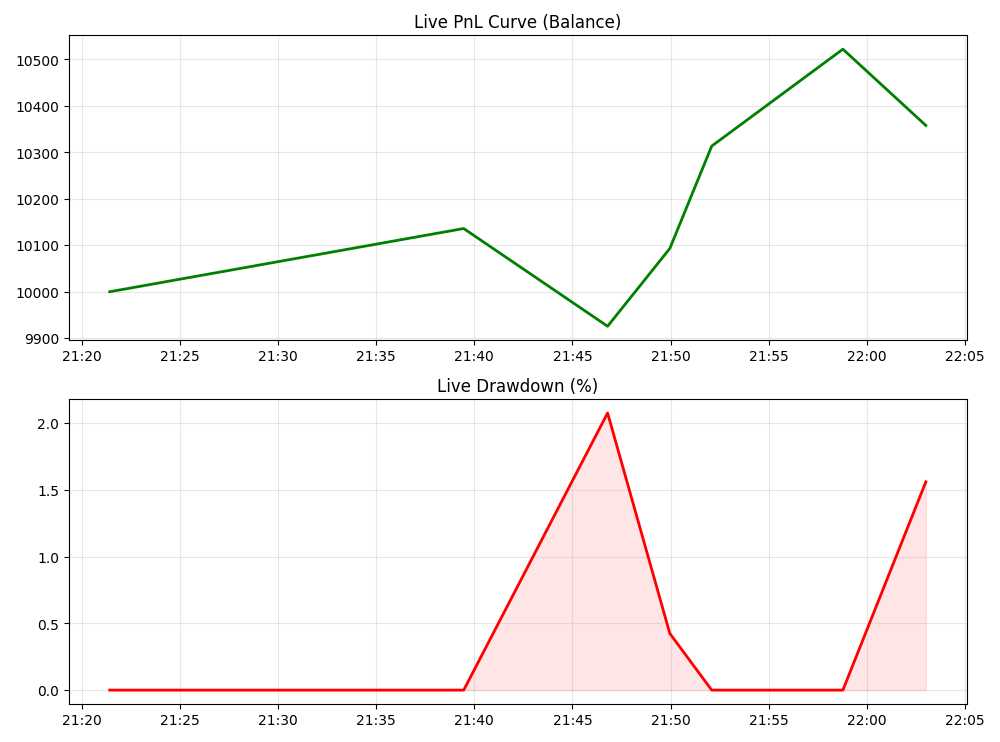
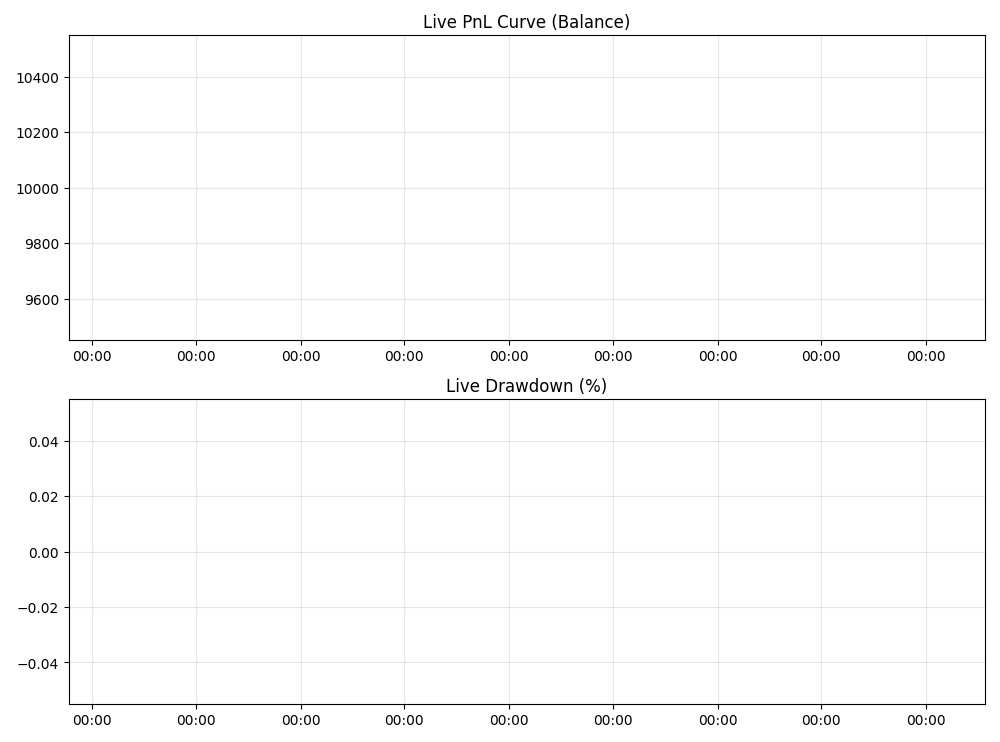
modified:   logs/live_pnl.png 	modified:   logs/live_trading.log 	modified:   src/01_fetch_ohlcv.py 	modified:   src/02_generate_funding_proxy.py 	modified:   src/02_run_eda.py 	modified:   src/03_data_pipeline.py 	modified:   src/06_train_agent.py 	modified:   src/08_live_trading_final.py 	modified

diff --git a/src/03_data_pipeline.py b/src/03_data_pipeline.py
@@ -49,29 +49,42 @@ def augment_data(df):
     return df_aug
 
 def plot_validation(df_real, df_aug):
-    """Generates a validation plot."""
+    """Generates a validation plot with enhanced visualizations."""
     logging.info("   -> Generating validation plots...")
-    
-    plt.figure(figsize=(14, 6))
-    
+    plt.figure(figsize=(18, 6))
+
     # Plot 1: Price Paths
-    plt.subplot(1, 2, 1)
+    plt.subplot(1, 3, 1)
     plt.plot(df_real['close'].values, label='Real (Bullish)', color='blue', alpha=0.7)
     plt.plot(df_aug['close'].values, label='Augmented (Bearish)', color='red', alpha=0.7)
     plt.title(f"{SYMBOL} Price Regimes")
     plt.legend()
     plt.grid(True, alpha=0.3)
-    
-    # Plot 2: Return Distribution
-    plt.subplot(1, 2, 2)
-    plt.hist(df_real['log_ret'], bins=50, alpha=0.5, label='Real Returns', color='blue', density=True)
-    plt.hist(df_aug['log_ret'], bins=50, alpha=0.5, label='Augmented Returns', color='red', density=True)
-    plt.title("Statistical Distribution of Returns")
+
+    # Plot 2: Rolling Volatility (30-period std of returns)
+    plt.subplot(1, 3, 2)
+    real_vol = df_real['log_ret'].rolling(30).std()
+    aug_vol = df_aug['log_ret'].rolling(30).std()
+    plt.plot(real_vol.values, label='Real Volatility', color='blue')
+    plt.plot(aug_vol.values, label='Augmented Volatility', color='red')
+    plt.title('Rolling 30-Period Volatility')
     plt.legend()
     plt.grid(True, alpha=0.3)
-    
+
+    # Plot 3: Rolling Mean Return (trend)
+    plt.subplot(1, 3, 3)
+    real_mean = df_real['log_ret'].rolling(30).mean()
+    aug_mean = df_aug['log_ret'].rolling(30).mean()
+    plt.plot(real_mean.values, label='Real Mean Return', color='blue')
+    plt.plot(aug_mean.values, label='Augmented Mean Return', color='red')
+    plt.title('Rolling 30-Period Mean Return')
+    plt.legend()
+    plt.grid(True, alpha=0.3)
+
     output_path = os.path.join(PROCESSED_DIR, "data_distribution.png")
+    plt.tight_layout()
     plt.savefig(output_path, dpi=300)
+    plt.close()
     logging.info(f"   -> Validation plot saved to {output_path}")
 
 def run_pipeline():

diff --git a/src/06_train_agent.py b/src/06_train_agent.py
@@ -80,10 +80,10 @@ def plot_training_results(log_dir):
 def train():
     logging.info("--- Starting Quick Training Session ---")
 
-    # 1. Setup Directories
+    #  Setup Directories
     os.makedirs(MODELS_DIR, exist_ok=True)
 
-    # 2. Load Data
+    #  Load Data
     if not os.path.exists(INPUT_PATH):
         logging.error("Error: Feature file not found.")
         return
@@ -91,11 +91,11 @@ def train():
     df = pd.read_csv(INPUT_PATH, index_col=0, parse_dates=True)
     logging.info(f"Loaded {len(df)} rows of data.")
 
-    # 3. Initialize Environment (With Monitor for stats)
-    # We wrap the Env in 'Monitor' to track episode rewards easily
+    #  Initialize Environment (With Monitor for stats)
+    #  wrap the Env in 'Monitor' to track episode rewards easily
     env = DummyVecEnv([lambda: Monitor(BitcoinTradingEnv(df, execution_mode='taker'))])
 
-    # 4. Setup Callback for Evaluation/Plotting
+    #  Setup Callback for Evaluation/Plotting
     # Evaluating on the training env itself just for the sake of the curve in this simple script
     eval_callback = EvalCallback(
         env,
@@ -106,7 +106,7 @@ def train():
         render=False
     )
 
-    # 5. Initialize PPO
+    #  Initialize PPO
     model = PPO(
         "MlpPolicy", 
         env, 
@@ -127,7 +127,7 @@ def train():
         )
     )
 
-    # 6. Start Training
+    #  Start Training
     logging.info(f"Training for {TIMESTEPS} timesteps...")
     start_time = time.time()
     
@@ -136,12 +136,12 @@ def train():
     end_time = time.time()
     logging.info(f"--- Training Complete in {(end_time - start_time)/60:.2f} minutes ---")
 
-    # 7. Save
+    #  Save
     save_path = os.path.join(MODELS_DIR, f"PPO_{SYMBOL}_QUICK_{int(time.time())}")
     model.save(save_path)
     logging.info(f"Model saved to: {save_path}.zip")
 
-    # 8. Plot
+    #  Plot
     plot_training_results(LOGS_DIR)
 
 if __name__ == "__main__":

diff --git a/src/01_fetch_ohlcv.py b/src/01_fetch_ohlcv.py
@@ -14,7 +14,7 @@ END_DATE = datetime(2025, 12, 31)
 
 # Specific endpoint for Delta India
 BASE_URL = "https://api.india.delta.exchange" # Using Testnet CDN for reliability in demo
-# Note: For real mainnet data, swap back to: "https://api.india.delta.exchange" 
+# For real mainnet data: "https://api.india.delta.exchange" 
 
 BATCH_SIZE = 2000 # Max candles per request
 
@@ -127,26 +127,26 @@ def visualize_data(df):
     plt.close() # Close to free memory
 
 if __name__ == "__main__":
-    # 1. Fetch
+    #  Fetch
     raw_data = fetch_full_history()
     logging.info(f"Total candles fetched: {len(raw_data)}")
     
     if len(raw_data) > 0:
-        # 2. Process
+        #  Process
         df = pd.DataFrame(raw_data)
         df['timestamp'] = pd.to_datetime(df['time'], unit='s')
         df.set_index('timestamp', inplace=True)
         df.sort_index(inplace=True)
         df = df[~df.index.duplicated(keep='first')]
         
-        # 3. Save CSV
+        #  Save CSV
         df.to_csv(OUTPUT_FILE)
         logging.info(f"Data saved to: {OUTPUT_FILE}")
         
-        # 4. Visualize (New Step)
+        #  Visualize 
         visualize_data(df)
         
-        # 5. Summary Stats
+        # Summary Stats
         logging.info(f"Date Range: {df.index.min()} to {df.index.max()}")
         logging.info(f"Missing seconds check: {(df.index[-1] - df.index[0]).total_seconds() / 60 - len(df):.0f} missing candles (approx)")
     else:

diff --git a/src/08_live_trading_final.py b/src/08_live_trading_final.py
@@ -34,11 +34,11 @@ PNL_IMG_PATH = os.path.join(LOG_DIR, 'live_pnl.png')
 
 # RISK SETTINGS
 TRADE_SIZE = 1 
-INITIAL_STOP_LOSS_PCT = 0.0015 
-TAKE_PROFIT_PCT = 0.0015 
-MAX_LEVERAGE_CAP = 50
-MAX_HOLD_MINUTES = 30
-MAX_DRAWDOWN_PCT = 0.20 
+INITIAL_STOP_LOSS_PCT = 0.0015 #0.15%
+TAKE_PROFIT_PCT = 0.0015 #0.15%
+MAX_LEVERAGE_CAP = 50 #50x
+MAX_HOLD_MINUTES = 30 #30 minutes
+MAX_DRAWDOWN_PCT = 0.20 #20%
 
 # HYBRID LOGIC SETTINGS
 ENABLE_HYBRID_OVERRIDES = True 
@@ -142,7 +142,7 @@ def log_performance_to_csv(balance, drawdown, account_obj=None, final=False):
     except Exception as e:
         logging.error(f"Perf CSV Error: {e}")
 
-# --- 4. API FUNCTIONS (ROBUST) ---
+# --- 4. API FUNCTIONS  ---
 def generate_signature(method, timestamp, path, query_string, payload):
     data = method + timestamp + path + query_string + payload
     return hmac.new(API_SECRET.encode(), data.encode(), hashlib.sha256).hexdigest()
@@ -462,7 +462,7 @@ class LiveTrader:
                         
                         self.pos = 0
 
-                # 3. AI + HYBRID LOGIC
+                # 3. AI + Rule-Based Hybrid Decision
                 action, _ = self.model.predict(obs, deterministic=True)
                 act_str = ["HOLD", "BUY", "SELL"][action[0]]
                 self.leverage = calculate_dynamic_leverage(atr, price)

diff --git a/src/trading_env.py b/src/trading_env.py
@@ -5,9 +5,9 @@ import pandas as pd
 
 class BitcoinTradingEnv(gym.Env):
     """
-    UPGRADED DRL Environment
-    Improvements:
-    - Continuous Reward (Net Worth Change) -> Fixes "Sparse Reward" problem
+     DRL Environment
+        Key Features:
+    - Continuous Reward (Net Worth Change) 
     - Reward Scaling -> Helps Neural Network converge
     - Step Penalty -> Discourages inaction
     """
@@ -20,7 +20,7 @@ class BitcoinTradingEnv(gym.Env):
                  take_profit_pct=0.005,   # 0.5% (Realistic 30m Target)
                  trailing_stop_pct=0.002, # 0.2% Trail
                  max_drawdown_pct=0.10,
-                 reward_scaling=1e-4):      # <--- NEW: Scale rewards to be ~1.0
+                 reward_scaling=1e-4):      # <---  Scale rewards to be ~1.0
         
         super(BitcoinTradingEnv, self).__init__()
 

diff --git a/src/02_run_eda.py b/src/02_run_eda.py
@@ -50,11 +50,10 @@ def run_analysis():
     plt.legend()
     plt.grid(True, alpha=0.3)
     
-    # Save plot to file instead of showing it
+    # Save plot to file 
     output_img = "eda_price_plot.png"
     plt.savefig(output_img)
     print(f"Graph saved successfully as '{output_img}'")
-    print("Check your project folder to see the image!")
 
 if __name__ == "__main__":
     run_analysis()

diff --git a/src/02_generate_funding_proxy.py b/src/02_generate_funding_proxy.py
@@ -60,7 +60,7 @@ def generate_proxy_funding():
     logging.info(f"Loaded {len(df)} price rows for processing.")
     
     # 2. Calculate Proxy Funding Rate
-    # Logic: Funding is proportional to price deviation from a moving average.
+    # Funding is proportional to price deviation from a moving average.
     
     # Calculate 8-hour Moving Average (8 * 60 = 480 minutes)
     window = 480
